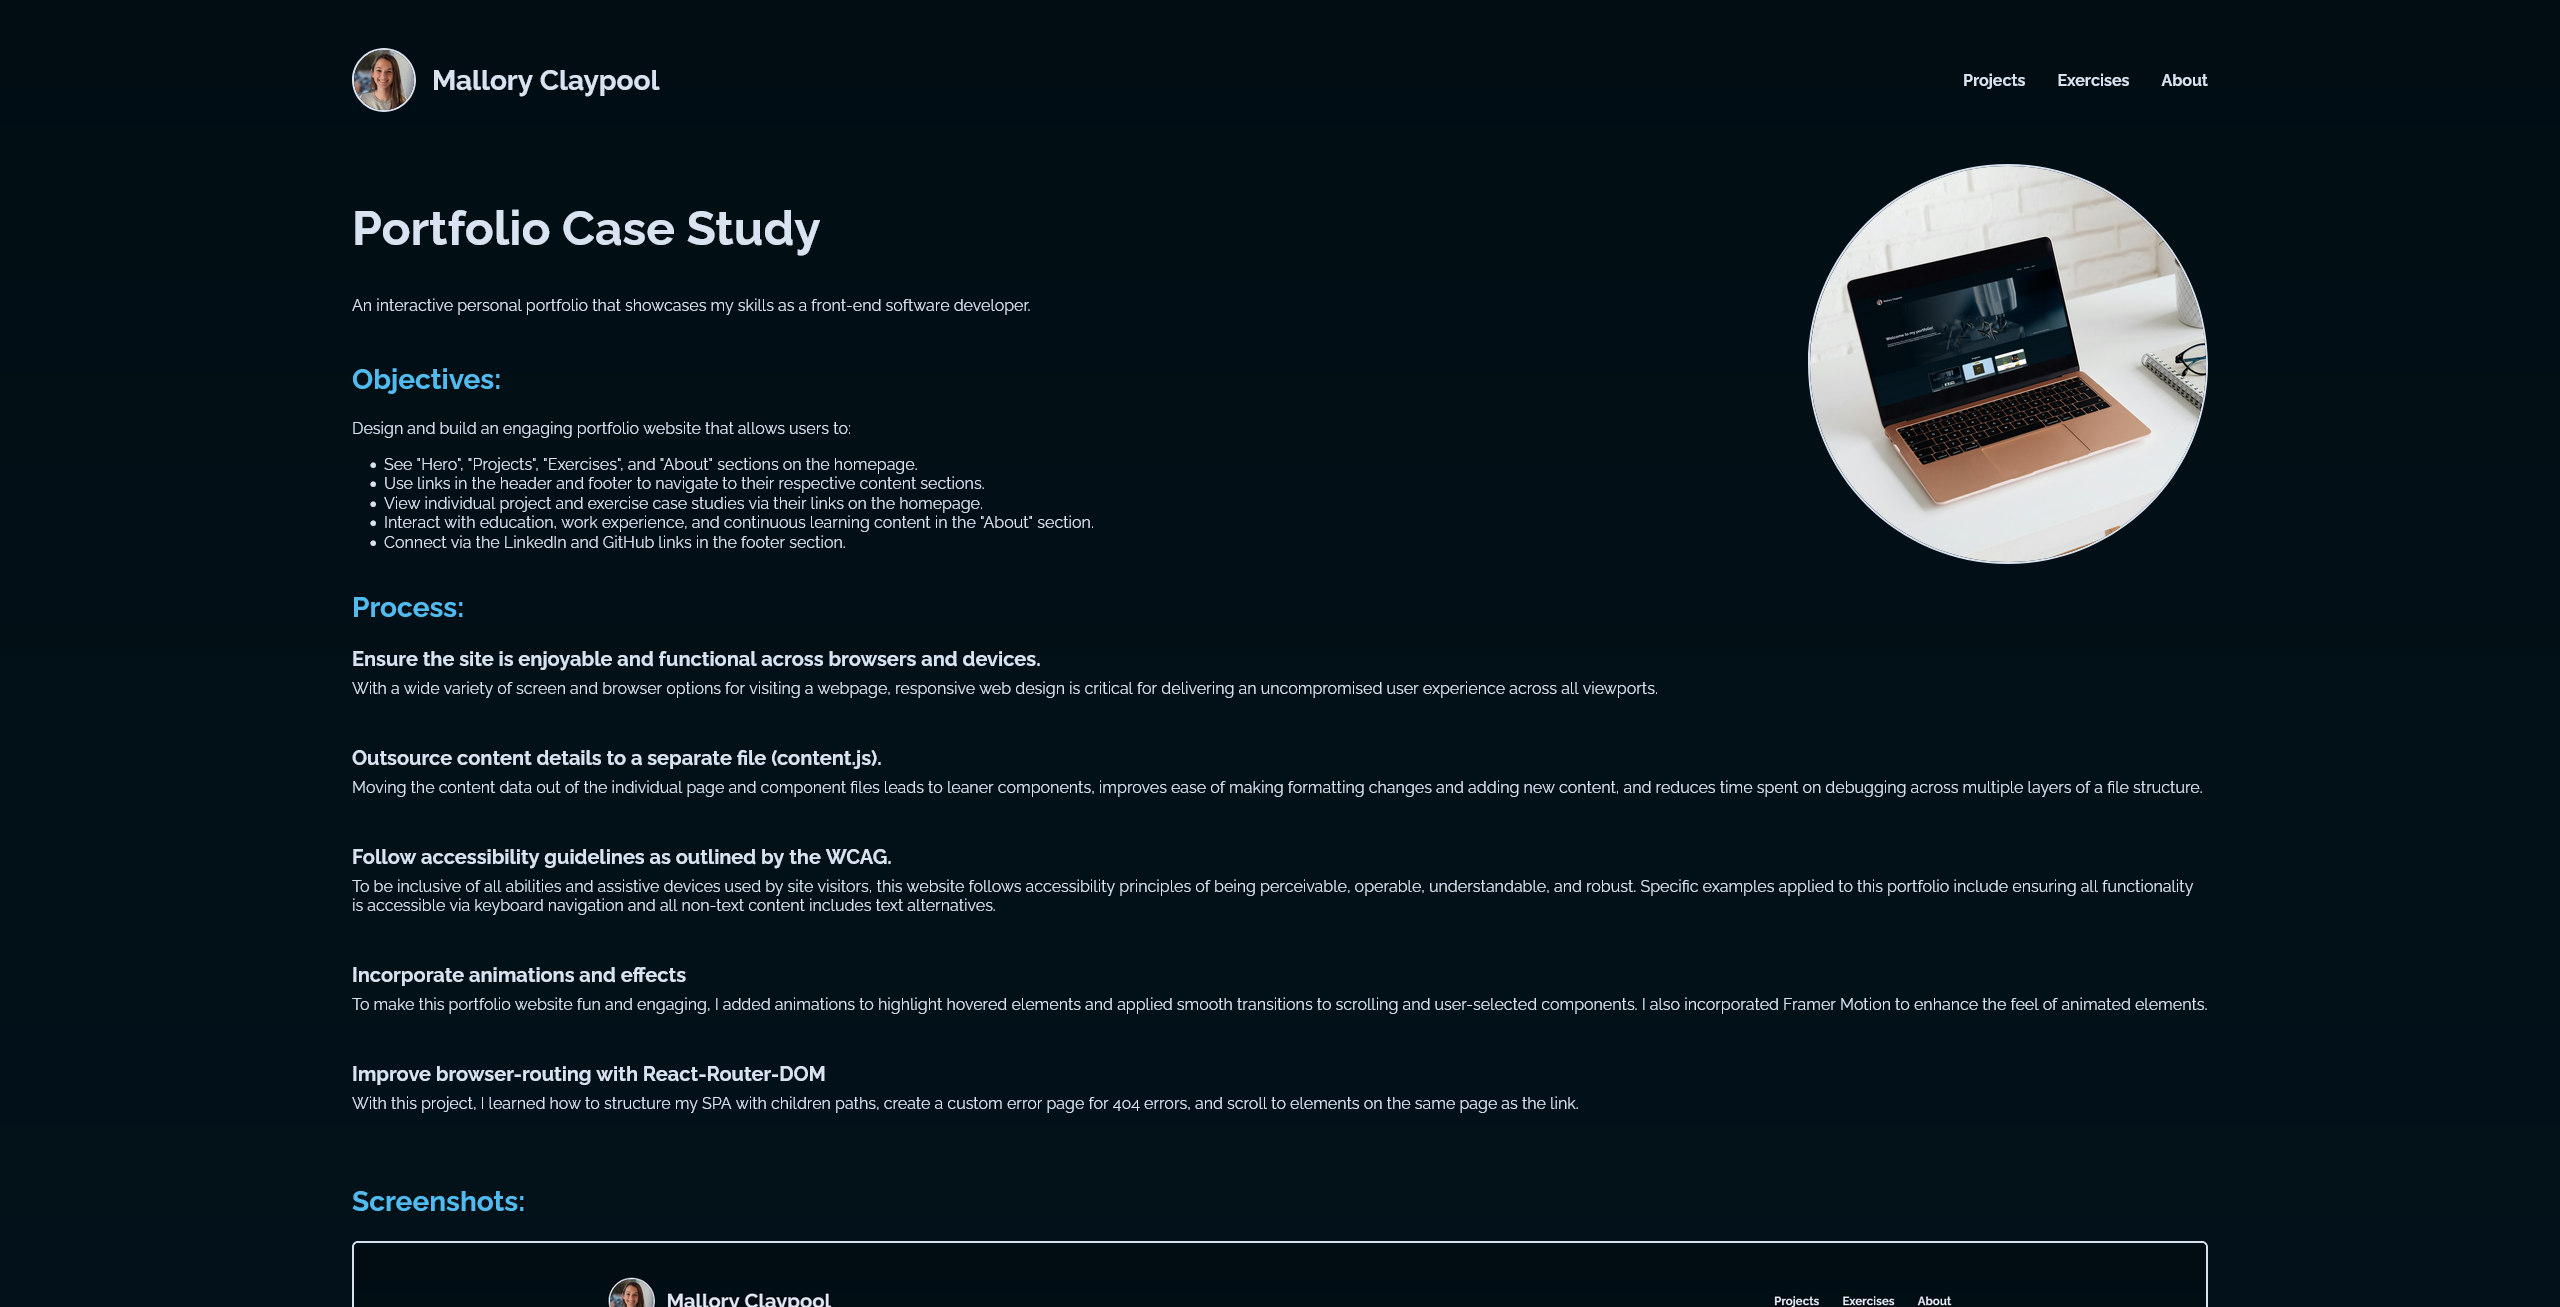
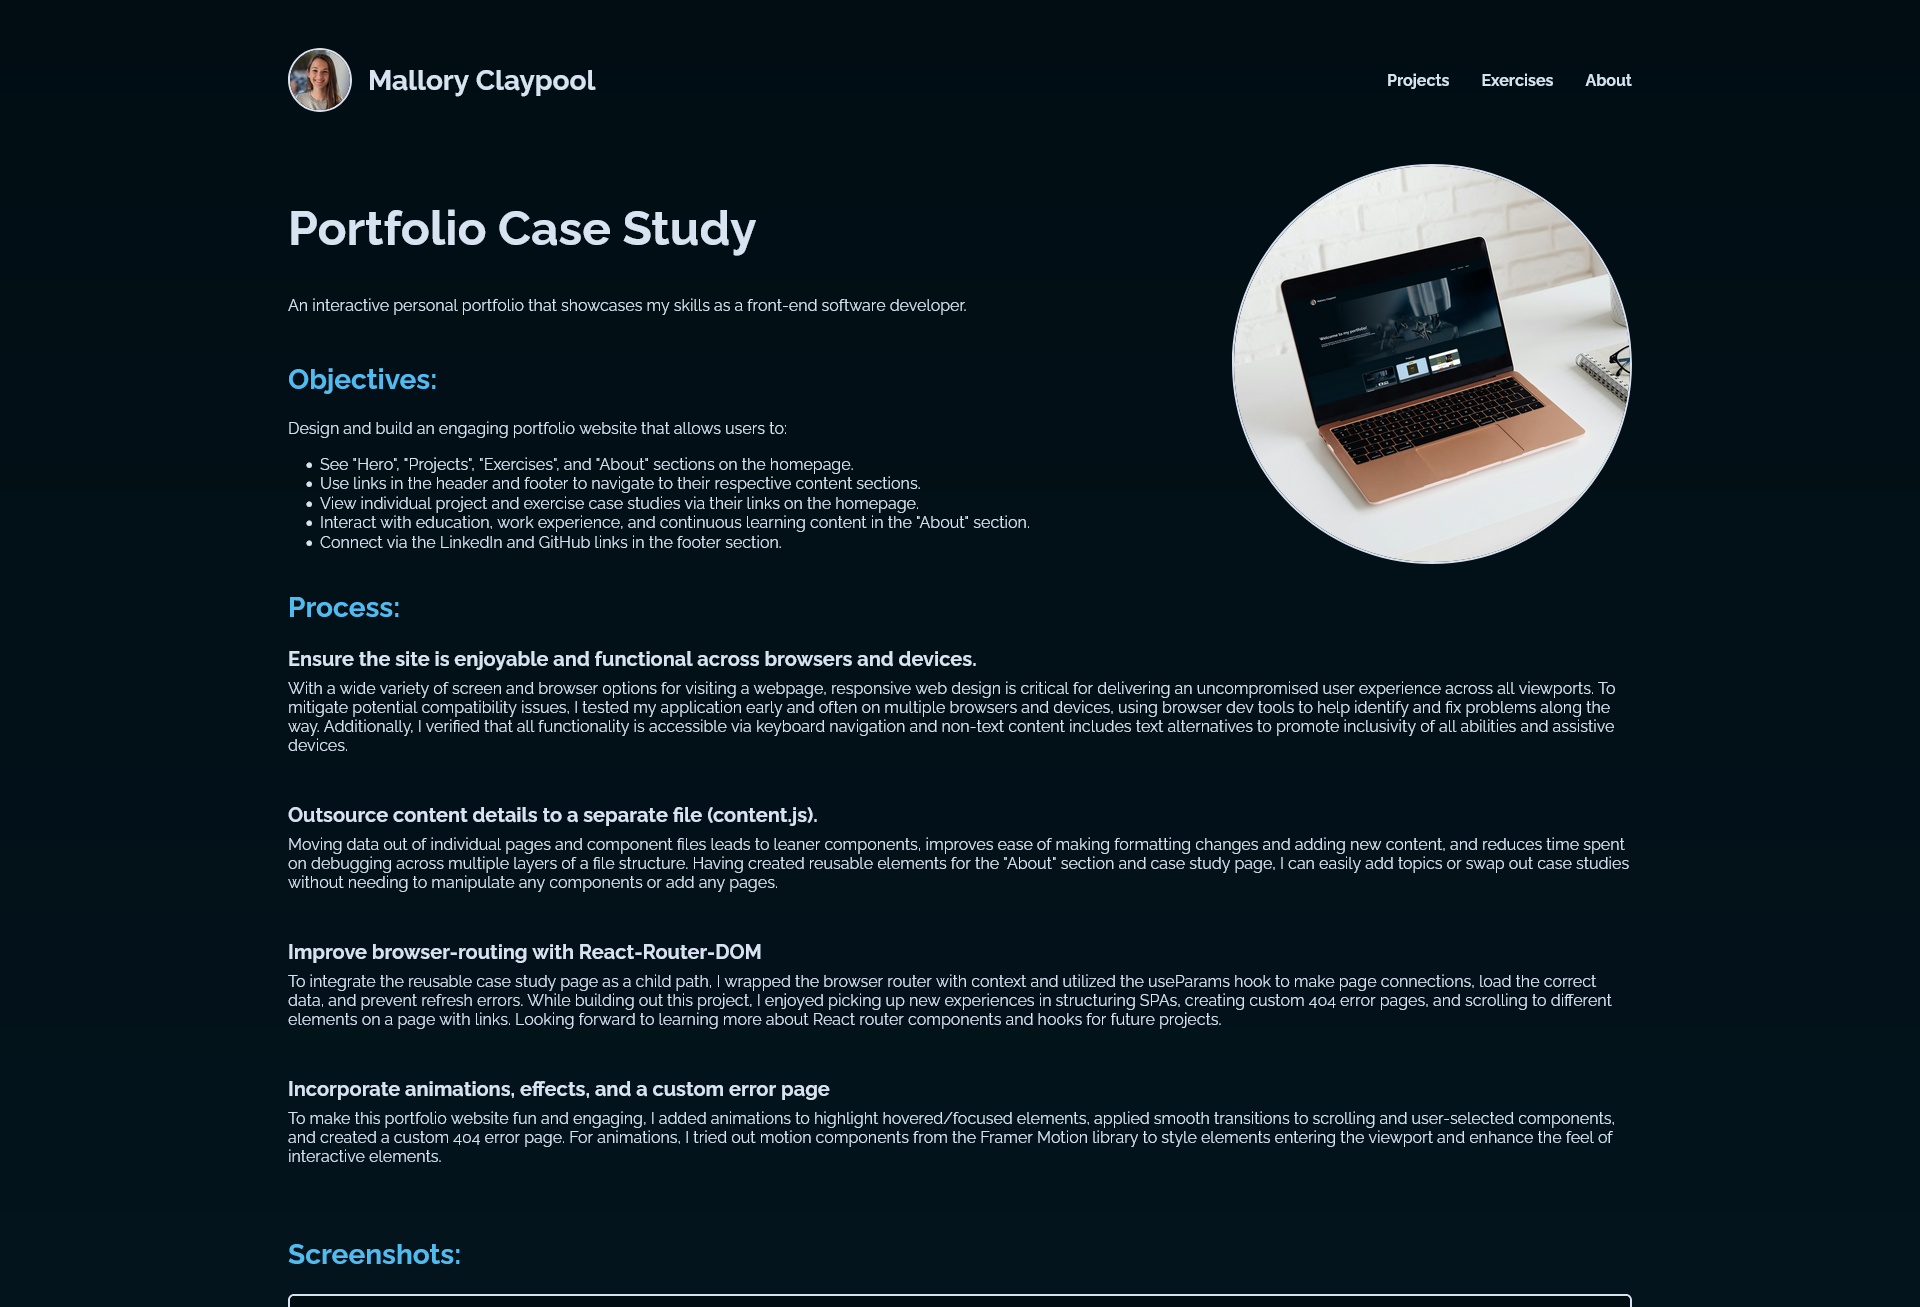
Update case study screenshots and content
Updated portfolio and country-picker case study content.

diff --git a/src/content.js b/src/content.js
@@ -1,5 +1,4 @@
 import projectImg1 from './assets/project--portfolio.png';
-import projectImg2 from './assets/project--countrypicker.jpg';
 import projectImg3 from './assets/project--little-lemon.png';
 import exerciseImg1 from './assets/exercise--food-ordering-app.png';
 import exerciseImg2 from './assets/exercise--placepicker.png';
@@ -26,14 +25,16 @@ import aboutUdemyReact from './assets/about--udemy-react.png';
 
 import portfolioMockUp from './assets/case-study--portfolio.png';
 import portfolioHomepage from './assets/case-study--portfolio-homepage.png';
+import portfolioHomepageFull from './assets/case-study--portfolio-homepage-full.png';
 import portfolioAbout from './assets/case-study--portfolio-about.png';
 import portfolioCaseStudyPage from './assets/case-study--portfolio-case-study.png';
+import portfolioErrorPage from './assets/case-study--portfolio-error-page.png';
 import countriesMockUp from './assets/case-study--country-picker.png';
-import countriesHomepage from './assets/case-study--country-picker-homepage.png';
+import countriesHomepage from './assets/case-study--country-picker-homepage-dark.png';
 import countriesHomepageL from './assets/case-study--country-picker-homepage-light.png';
-import countriesSearch from './assets/case-study--country-picker-search.png';
+import countriesSearch from './assets/case-study--country-picker-search-dark.png';
 import countriesSearchL from './assets/case-study--country-picker-search-light.png';
-import countriesDetails from './assets/case-study--country-picker-details.png';
+import countriesDetails from './assets/case-study--country-picker-details-dark.png';
 import countriesDetailsL from './assets/case-study--country-picker-details-light.png';
 import lemonMockUp from './assets/case-study--little-lemon.png';
 import lemonHomepage from './assets/case-study--little-lemon-homepage.png';
@@ -141,7 +142,7 @@ export const ABOUTTAB = {
         altText: "Freepik icon of a crossed pencil and wrench, representing skills gained.",
         title: 'Skills',
         description: 'Developed numerous skills from working as a mechanical engineer that translate well into a software development role, including collaborating on multidisciplinary teams, iterating on designs, and integrating deliverables into larger systems.',
-        takeaways: 'Given my professional background, I bring a unique set of experiences in engineering and problem-solving to the software development field. Even as a newly minted mechanical engineer early in my career, I offered a fresh perspective to my project teams that promoted new ideas over routine solutions.',
+        takeaways: 'Given my professional background, I bring a unique set of experiences in engineering and problem-solving to the software development field. Even early in my career as a mechanical engineer, I offered a fresh perspective to my project teams that promoted new ideas over routine solutions.',
       },
     ],
   },
@@ -175,8 +176,8 @@ export const ABOUTTAB = {
         icon: aboutUTUXCert,
         altText: "Freepik icon of a certificate, representing a professional certificate earned from The University of Texas at Austin.",
         title: 'Post Graduate Program in UX Design',
-        description: 'Solidified user experience design concepts through multiple hands-on exercises. Collaborated with four other designers to plan out a pet health-tracking mobile app and present our concept to other peers and mentors of the program.',
-        takeaways: 'This experience afforded me an additional perspective on the UX Design field. I became more efficient using Figma plan out web designs, and learned about current design trends like inclusion of micro-animations, minimalism, and dark mode.',
+        description: 'Solidified user experience design concepts with projects in conducting user research, conducting competitive audits, and redesigning websites. Collaborated with four other designers to plan out a pet health-tracking mobile app and present our concept to other peers and mentors of the program.',
+        takeaways: 'This experience afforded me an additional perspective on the UX Design field. I became more efficient using to Figma plan out web designs, and I learned about current design trends like inclusion of micro-animations, minimalism, and dark mode.',
       },
       {
         id: 'learnFEM',
@@ -185,7 +186,7 @@ export const ABOUTTAB = {
         altText: "Freepik icon of a multiple-sized screens, representing responsive website design projects from Frontend Mentor.",
         title: 'FrontEnd Mentor Challenges',
         description: 'Practiced building web pages with HTML, CSS, Tailwind CSS, JavaScript, React.js, and Styled Components. Exercised design best practices using semantic HTML and flexboxes for building accessible, responsive web elements.',
-        takeaways: 'Through building out these projects, I enjoyed the opportunities to try out different third-party libraries and put all I have learned into practice. I am very proud of my advanced country picker webpage, where I practiced making API calls and learned how to create new components like search bars and filter elements.',
+        takeaways: 'Through building out these projects, I pushed myself to try out different third-party libraries and put all I have learned into practice. I am very proud of my advanced country-picker webpage, where I practiced making API calls and learned how to create new components like search bars and filter elements.',
       },
       {
         id: 'learnUdemy',
@@ -205,7 +206,7 @@ export const ABOUTTAB = {
 export const portfolio = {
   type: "project",
   linkUrl: "/portfolio/",
-  cardImg: projectImg1,
+  cardImg: portfolioHomepage,
   cardAlt: "Personal portfolio website screenshot",
   cardTitle: "Portfolio",
   cardDescription: "A responsive, interactive portfolio website highlighting personal growth as a designer and software developer.",
@@ -222,27 +223,28 @@ export const portfolio = {
   learnings: [
     {
       title: 'Ensure the site is enjoyable and functional across browsers and devices.',
-      insight: 'With a wide variety of screen and browser options for visiting a webpage, responsive web design is critical for delivering an uncompromised user experience across all viewports. To mitigate potential compatibility issues, I tested my application early and often on multiple browsers and devices, using browser dev tools to help identify and fix problems along the way. And to promote inclusivity of all abilities and assistive devices used by site visitors, I verified that all functionality is accessible via keyboard navigation and all non-text content includes text alternatives.',
+      insight: 'With a wide variety of screen and browser options for visiting a webpage, responsive web design is critical for delivering an uncompromised user experience across all viewports. To mitigate potential compatibility issues, I tested my application early and often on multiple browsers and devices, using browser dev tools to help identify and fix problems along the way. Additionally, I verified that all functionality is accessible via keyboard navigation and non-text content includes text alternatives to promote inclusivity of all abilities and assistive devices.',
     },
     {
       title: 'Outsource content details to a separate file (content.js).',
-      insight: 'Moving the content data out of the individual page and component files leads to leaner components, improves ease of making formatting changes and adding new content, and reduces time spent on debugging across multiple layers of a file structure. With this solution, I can easily add case study projects or about topics in the future without needing to manipulate the individual components.',
-    },
-    {
-      title: "Incorporate animations, effects, and a custom error page",
-      insight: "To make this portfolio website fun and engaging, I added animations to highlight hovered/focused elements and applied smooth transitions to scrolling and user-selected components. I also incorporated Framer Motion to enhance the feel of animated elements.",
+      insight: 'Moving data out of individual pages and component files leads to leaner components, improves ease of making formatting changes and adding new content, and reduces time spent on debugging across multiple layers of a file structure. Having created reusable elements for the "About" section and case study page, I can easily add topics or swap out case studies without needing to manipulate any components or add any pages.',
     },
     {
       title: "Improve browser-routing with React-Router-DOM",
-      insight: "With this project, I learned how to structure my SPA with children paths, create a custom error page for 404 errors, and scroll to elements on the same page as the link.",
+      insight: "To integrate the reusable case study page as a child path, I wrapped the browser router with context and utilized the useParams hook to make page connections, load the correct data, and prevent refresh errors. While building out this project, I enjoyed picking up new experiences in structuring SPAs, creating custom 404 error pages, and scrolling to different elements on a page with links. Looking forward to learning more about React router components and hooks for future projects.",
+    },
+    {
+      title: "Incorporate animations, effects, and a custom error page",
+      insight: "To make this portfolio website fun and engaging, I added animations to highlight hovered/focused elements, applied smooth transitions to scrolling and user-selected components, and created a custom 404 error page. For animations, I tried out motion components from the Framer Motion library to style elements entering the viewport and enhance the feel of interactive elements.",
     },
   ],
   image: portfolioMockUp,
   altText: "Laptop mock-up of final portfolio design.",
   screenshots: [
-    portfolioHomepage,
+    portfolioHomepageFull,
     portfolioAbout,
     portfolioCaseStudyPage,
+    portfolioErrorPage,
   ],
   repoLink: "https://github.com/mjclaypool/Personal-Portfolio",
 }
@@ -250,7 +252,7 @@ export const portfolio = {
 export const countryPicker = {
   type: "project",
   linkUrl: "/country-picker/",
-  cardImg: projectImg2,
+  cardImg: countriesHomepage,
   cardAlt: "Country-Picker web application screenshot",
   cardTitle: "Country-Picker App",
   cardDescription: "A country-picking app that pulls and displays country data from the REST Countries API.",
@@ -318,7 +320,7 @@ export const littleLemon = {
     },
     {
       title: "Develop useful client-side form validation",
-      insight: "Setting users up for success with informative error messages prevents frustration and improves the overall user experience. With any form's development, I make sure users are guided towards valid inputs with straightforward and specific error messages and not bombarded with errors on individual keystrokes.",
+      insight: "Setting users up for success with informative error messages prevents frustration and improves the overall user experience. With any form's development, I make sure users are guided towards valid inputs with straightforward and specific error messages and not bothered with errors on individual keystrokes.",
     },
     {
       title: "Use the useReducer Hook",
@@ -365,6 +367,7 @@ export const foodOrderingApp = {
     'Sending HTTP Requests',
     'Building reusable modal components',
     'Handling form submission and validation',
+    'Using context to share state data',
   ],
   image: foodOrderingMockUp,
   altText: "Laptop mock-up of the food ordering app.",
@@ -396,6 +399,7 @@ export const placepicker = {
   outcomes: "Over the course of this exercise, I further developed my coding skills by practicing:",
   learnings: [
     'Fetching data from a dummy backend API',
+    'Defining asynchronous functions',
     'Handling side-effects and HTTP errors',
     'Employing optimistic UI updating',
   ],
